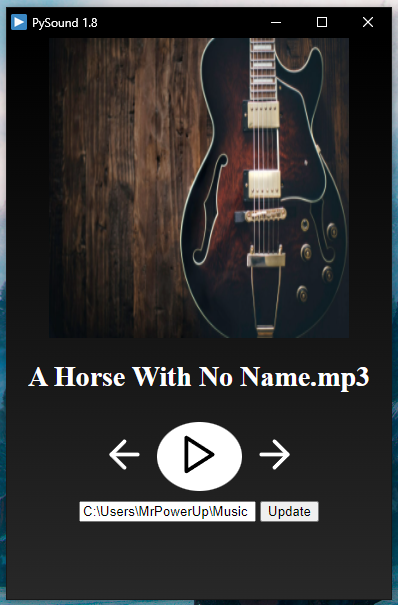
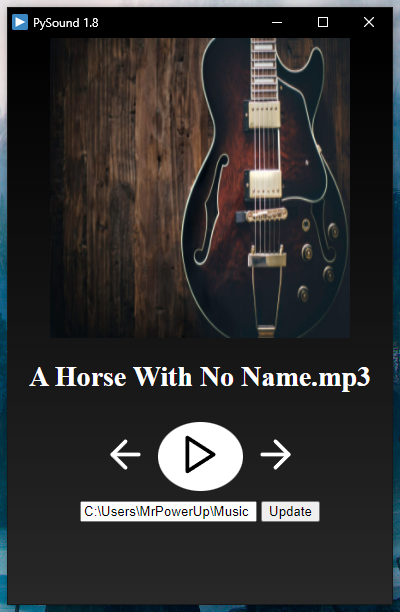
added color on mixervol

diff --git a/web/styles.css b/web/styles.css
@@ -18,7 +18,32 @@ body{
     height:300px;
     width:300px;
 }
+input[type='range'] {
+    margin-bottom: 5px;
+}
+@media screen and (-webkit-min-device-pixel-ratio:0) {
+    input[type='range'] {
+      overflow: hidden;
+      width: 100%;
+      -webkit-appearance: none;
+      background-color: rgba(0,0,0, 0.7);
+    }
+    
+    input[type='range']::-webkit-slider-runnable-track {
+      height: 15px;
+      -webkit-appearance: none;
+      margin-top: -1px;
+      cursor: pointer;
+    }
+    
+    input[type='range']::-webkit-slider-thumb {
+      width: 10px;
+      -webkit-appearance: none;
+      cursor: ew-resize;
+      box-shadow: -80px 0 0 80px #fff;
+    }
 
+}
 
 .controls{
     flex: 1;

diff --git a/web/index.html b/web/index.html
@@ -148,7 +148,7 @@
         get_path()
     </script>
     <script>
-        window.resizeTo(400,600)
+        window.resizeTo(400,605)
     </script>
 </body>
 </html>

diff --git a/main.py b/main.py
@@ -90,4 +90,4 @@ def play(path,sounds):
     return sounds[0]
 
 
-eel.start('index.html', size=(400,600))
+eel.start('index.html', size=(400,605))
